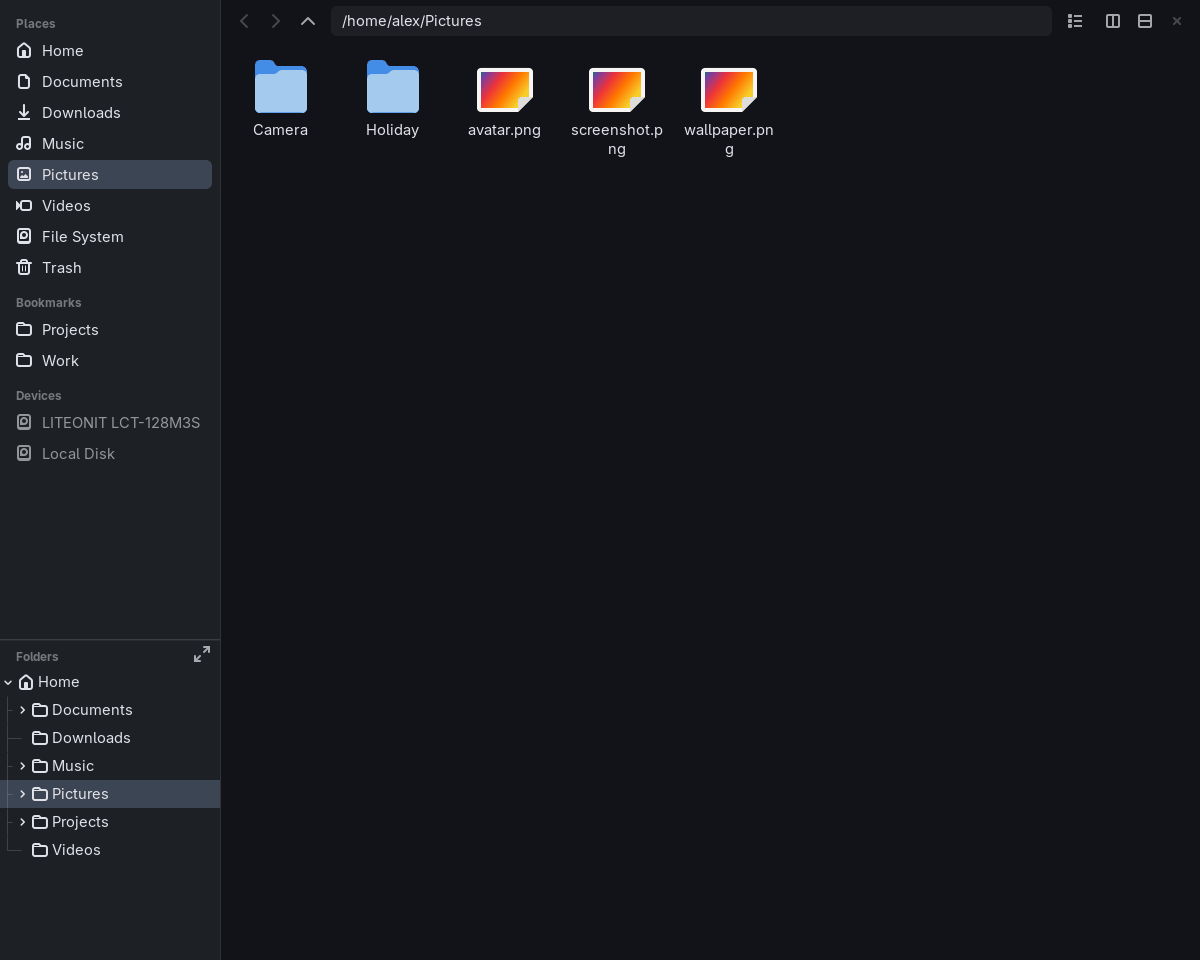
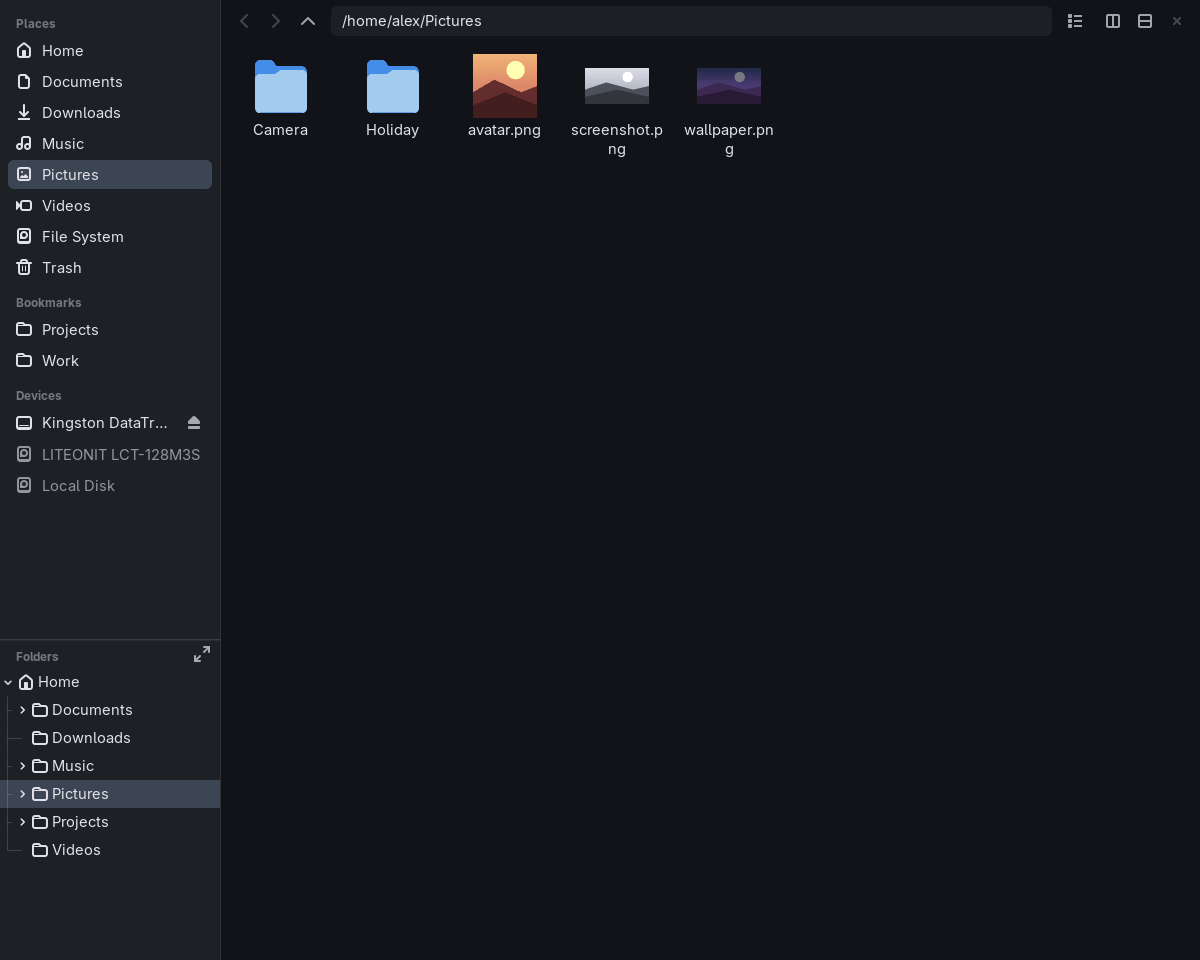
Guide: thumbnails; demo pictures look like photos
New Thumbnails section with a screenshot, [preview] in the configuration
example; the demo home's pictures get a sun and hills so their
thumbnails read as photos; screenshots keep the thumbnail cache inside
the demo home. PLAN: milestone 9 done.

Changed region(s): [[0.37, 0.0312, 0.6475, 0.125], [0.0, 0.4375, 0.1542, 0.5312]]

diff --git a/docs/guide/tools/demo-home.py b/docs/guide/tools/demo-home.py
@@ -23,7 +23,7 @@ def write(path, text=""):
 
 
 def gradient(path, size, top, bottom):
-    """A simple two-colour gradient image, so image files look like images."""
+    """A sky gradient with a sun and two hills, so thumbnails look like photos."""
     os.makedirs(os.path.dirname(path), exist_ok=True)
     w, h = size
     img = Image.new("RGB", size)
@@ -32,6 +32,13 @@ def gradient(path, size, top, bottom):
         t = y / max(1, h - 1)
         color = tuple(int(top[i] + (bottom[i] - top[i]) * t) for i in range(3))
         draw.line([(0, y), (w, y)], fill=color)
+    sun = (min(255, top[0] + 90), min(255, top[1] + 80), min(255, top[2] + 60))
+    r = h // 7
+    draw.ellipse([w * 2 // 3 - r, h // 4 - r, w * 2 // 3 + r, h // 4 + r], fill=sun)
+    far = tuple(c // 2 for c in bottom)
+    near = tuple(c // 3 for c in bottom)
+    draw.polygon([(0, h * 3 // 5), (w // 3, h * 2 // 5), (w * 3 // 4, h * 3 // 5), (w, h // 2), (w, h), (0, h)], fill=far)
+    draw.polygon([(0, h * 4 // 5), (w // 2, h * 3 // 5), (w, h * 4 // 5), (w, h), (0, h)], fill=near)
     img.save(path)
 
 

diff --git a/PLAN.md b/PLAN.md
@@ -81,7 +81,7 @@ sort_by      = "name"         # name | size | modified | type
 dirs_first   = true
 confirm_delete = true
 thumbnails   = true
-thumbnail_max_size_mb = 50
+thumbnail_max_mb = 50
 
 [sidebar]
 bookmarks = ["~/Downloads", "~/Documents"]
@@ -243,5 +243,5 @@ Every milestone also updates the user guide (`docs/guide/index.md`) and retakes 
 6. ✅ **Rename and mass rename:** name prompt (F2), pattern dialog with template / find-replace / case / counter and live conflict preview (F2 on several, Shift+F2), two-pass rename with rollback. The directory model dropped GtkTreeModelFilter (it emitted criticals when shown rows were removed).
 7. ✅ **Fuzzy search overlay:** tiered `fuzzy.c` scorer with unit tests; the directory model filters and orders by score; a floating card centred in the bottom third of the active pane (Ctrl+F; Up/Down/Enter/Esc).
 8. ✅ **Modal workflow:** normal-mode keymap (data-driven, overridable in `[keys]`) with chord handling and showcmd. Split focus / swap commands. The `:` command line with history, argument parsing, and grouped context-aware completion using `fuzzy.c`. All commands from section 7. Unit tests for the keymap parser, the command parser and completion ordering. (`keymap.c`, `cmdline.c`, `commands.c`, `cmdbar.c`; every action is also a command.) Later: visual mode (`v`, chunks), `zz`, Ctrl+S hides the sidebar, the folder tree can fill the sidebar, chord suggestions, and undo (`undo.c`: an app-wide history of file changes; `:undo [<step>]`, `u`, Ctrl+Z; copy-like steps are undone into the trash, never deleted).
-9. **Thumbnails:** images, videos, freedesktop cache, worker pool, lazy loading of visible items only.
+9. ✅ **Thumbnails:** images, videos, freedesktop cache, worker pool, lazy loading of visible items only. (`thumbs.c`: spec cache with failure markers shared with other file managers; gdk-pixbuf for images, installed `.thumbnailer` files, ffmpeg fallback for videos; a newest-first thread pool; panes request only the rows on screen plus a margin and cancel what scrolled away. Unit tests in `tests/test_thumbs.c`.)
 10. **Settings dialog**, UI scaling, `.desktop` file, `meson install`, README.

diff --git a/docs/guide/index.md b/docs/guide/index.md
@@ -60,6 +60,29 @@ program for an extension, see [Configuration](#configuration).
 - In the list view, click a column header to sort by it; click again to
   reverse. Folders always stay on top.
 
+### Thumbnails
+
+Pictures, videos and other files with a thumbnailer show a small preview
+instead of their icon, in the grid and the list.
+
+![Thumbnails of photos](images/thumbnails.png)
+
+- Only the files on screen get thumbnails, made in the background a few
+  at a time. Scrolling past a long folder doesn't make thumbnails for
+  everything in it.
+- Thumbnails are kept in `~/.cache/thumbnails`, the cache other file
+  managers use too, so files they already showed appear at once. A file
+  that changes gets a new one.
+- Images are read directly. Videos, documents and other types use the
+  thumbnailers installed on the system (`ffmpegthumbnailer`,
+  `gsf-office-thumbnailer`, …); videos fall back to `ffmpeg` when no
+  thumbnailer is installed for them.
+- A file that cannot be thumbnailed (damaged, unsupported) keeps its icon
+  and isn't tried again until it changes.
+- *Preferences* (or `[preview]` in `config.toml`) switches thumbnails off
+  and sets the size limit: bigger files keep their icon (50 MiB by default).
+  Only local files get thumbnails.
+
 ## Sidebar
 
 ![Sidebar with places, bookmarks, drives and the folder tree](images/sidebar.png)
@@ -473,8 +496,8 @@ mounting, configuration reloads).
 ## Configuration
 
 **Ctrl+P** opens *Preferences*: start folder, hidden files, scale, view,
-icon size, sorting, delete confirmation, window title bar and GTK
-bookmarks. Changes apply immediately.
+icon size, sorting, delete confirmation, window title bar, thumbnails and
+their size limit, and GTK bookmarks. Changes apply immediately.
 
 ![Preferences](images/preferences.png)
 
@@ -493,6 +516,10 @@ show_hidden = false
 ui_scale = 1.0
 view = "grid"        # grid | list
 sort_by = "name"     # name | size | modified | type
+
+[preview]
+thumbnails = true
+thumbnail_max_mb = 50
 
 [open]               # program per extension; %f is the file
 mp4 = "mpv %f"

diff --git a/README.md b/README.md
@@ -35,7 +35,7 @@ makepkg -si
 ```
 
 Runtime dependencies: gtk3, glib2, udisks2 + polkit (mounting), xdg-utils
-(opening files) and ffmpeg (video thumbnails, upcoming). See the PKGBUILD
+(opening files) and ffmpeg (video thumbnails). See the PKGBUILD
 for the full, annotated list.
 
 ## License
